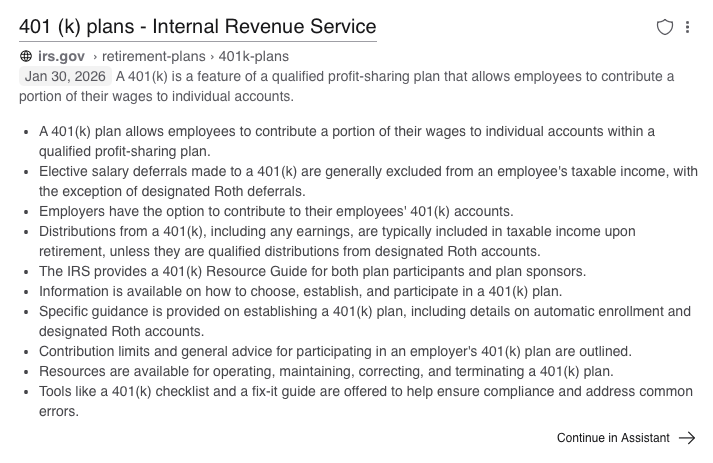
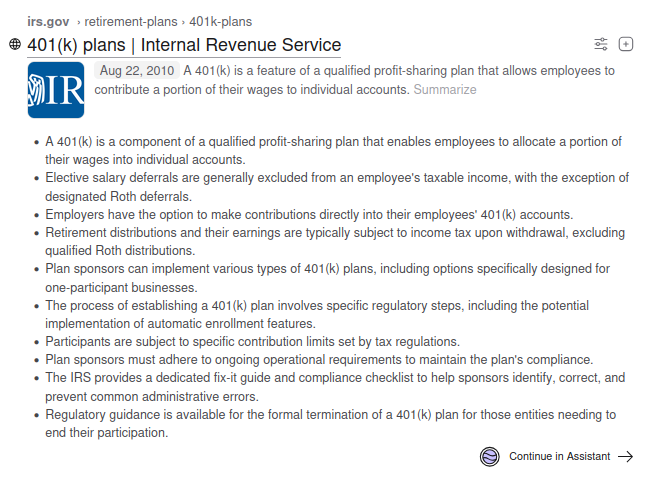
Updated the summarizer photos and text in search results to reflect the latest UI (#1015)
* Updated the summarizer photos in search

* Update index.md to fix in search results summary

Changed region(s): [[0.0, 0.0302, 0.9771, 0.9374], [0.7328, 0.9374, 0.9771, 0.9978]]

diff --git a/docs/kagi/summarizer/index.md b/docs/kagi/summarizer/index.md
@@ -49,7 +49,7 @@ You may find individual pages that you would like to summarize and Kagi is the f
 
 ![Summarize Page](media/kagi-summarize-search-result.png){data-zoomable}
 
-Expand the page options next to a search results and select `Quick Summary`, Kagi will then use its proprietary Summarizer technology in the back end to provide an easily digestible synthesis.
+Under each individual search result a `Summarize` button will show. When clicked, Kagi will then use its proprietary Summarizer technology in the back end to provide an easily digestible synthesis.
 
 ![Summarize Page](media/kagi-summarize-search-result-summarized.png){data-zoomable}
 
